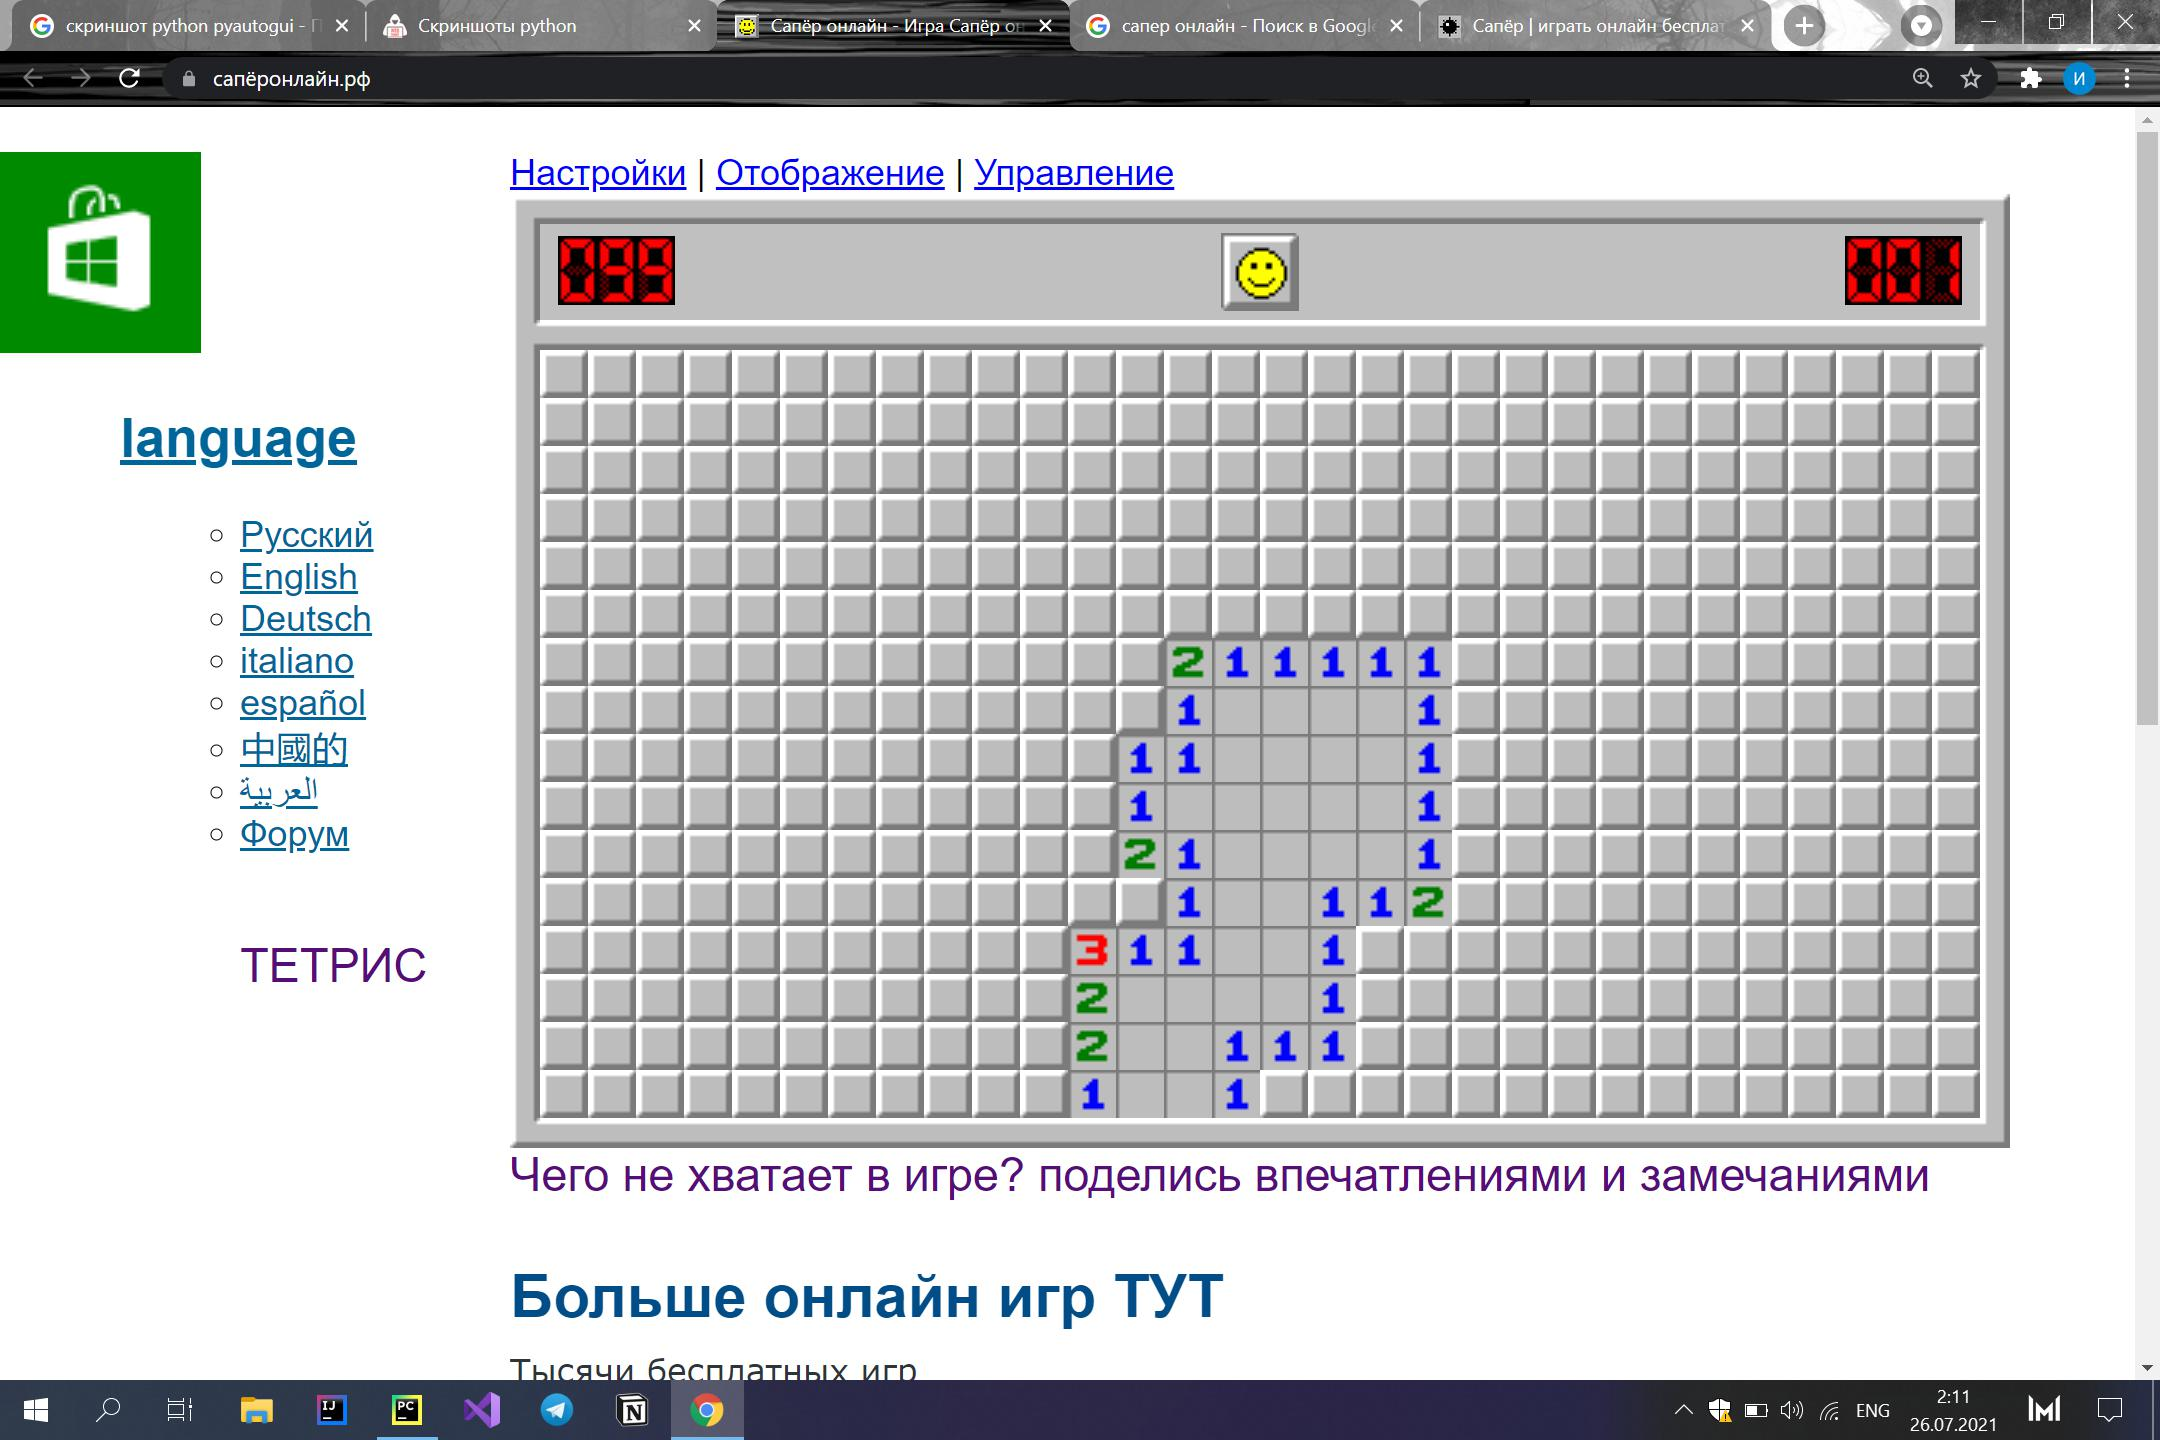
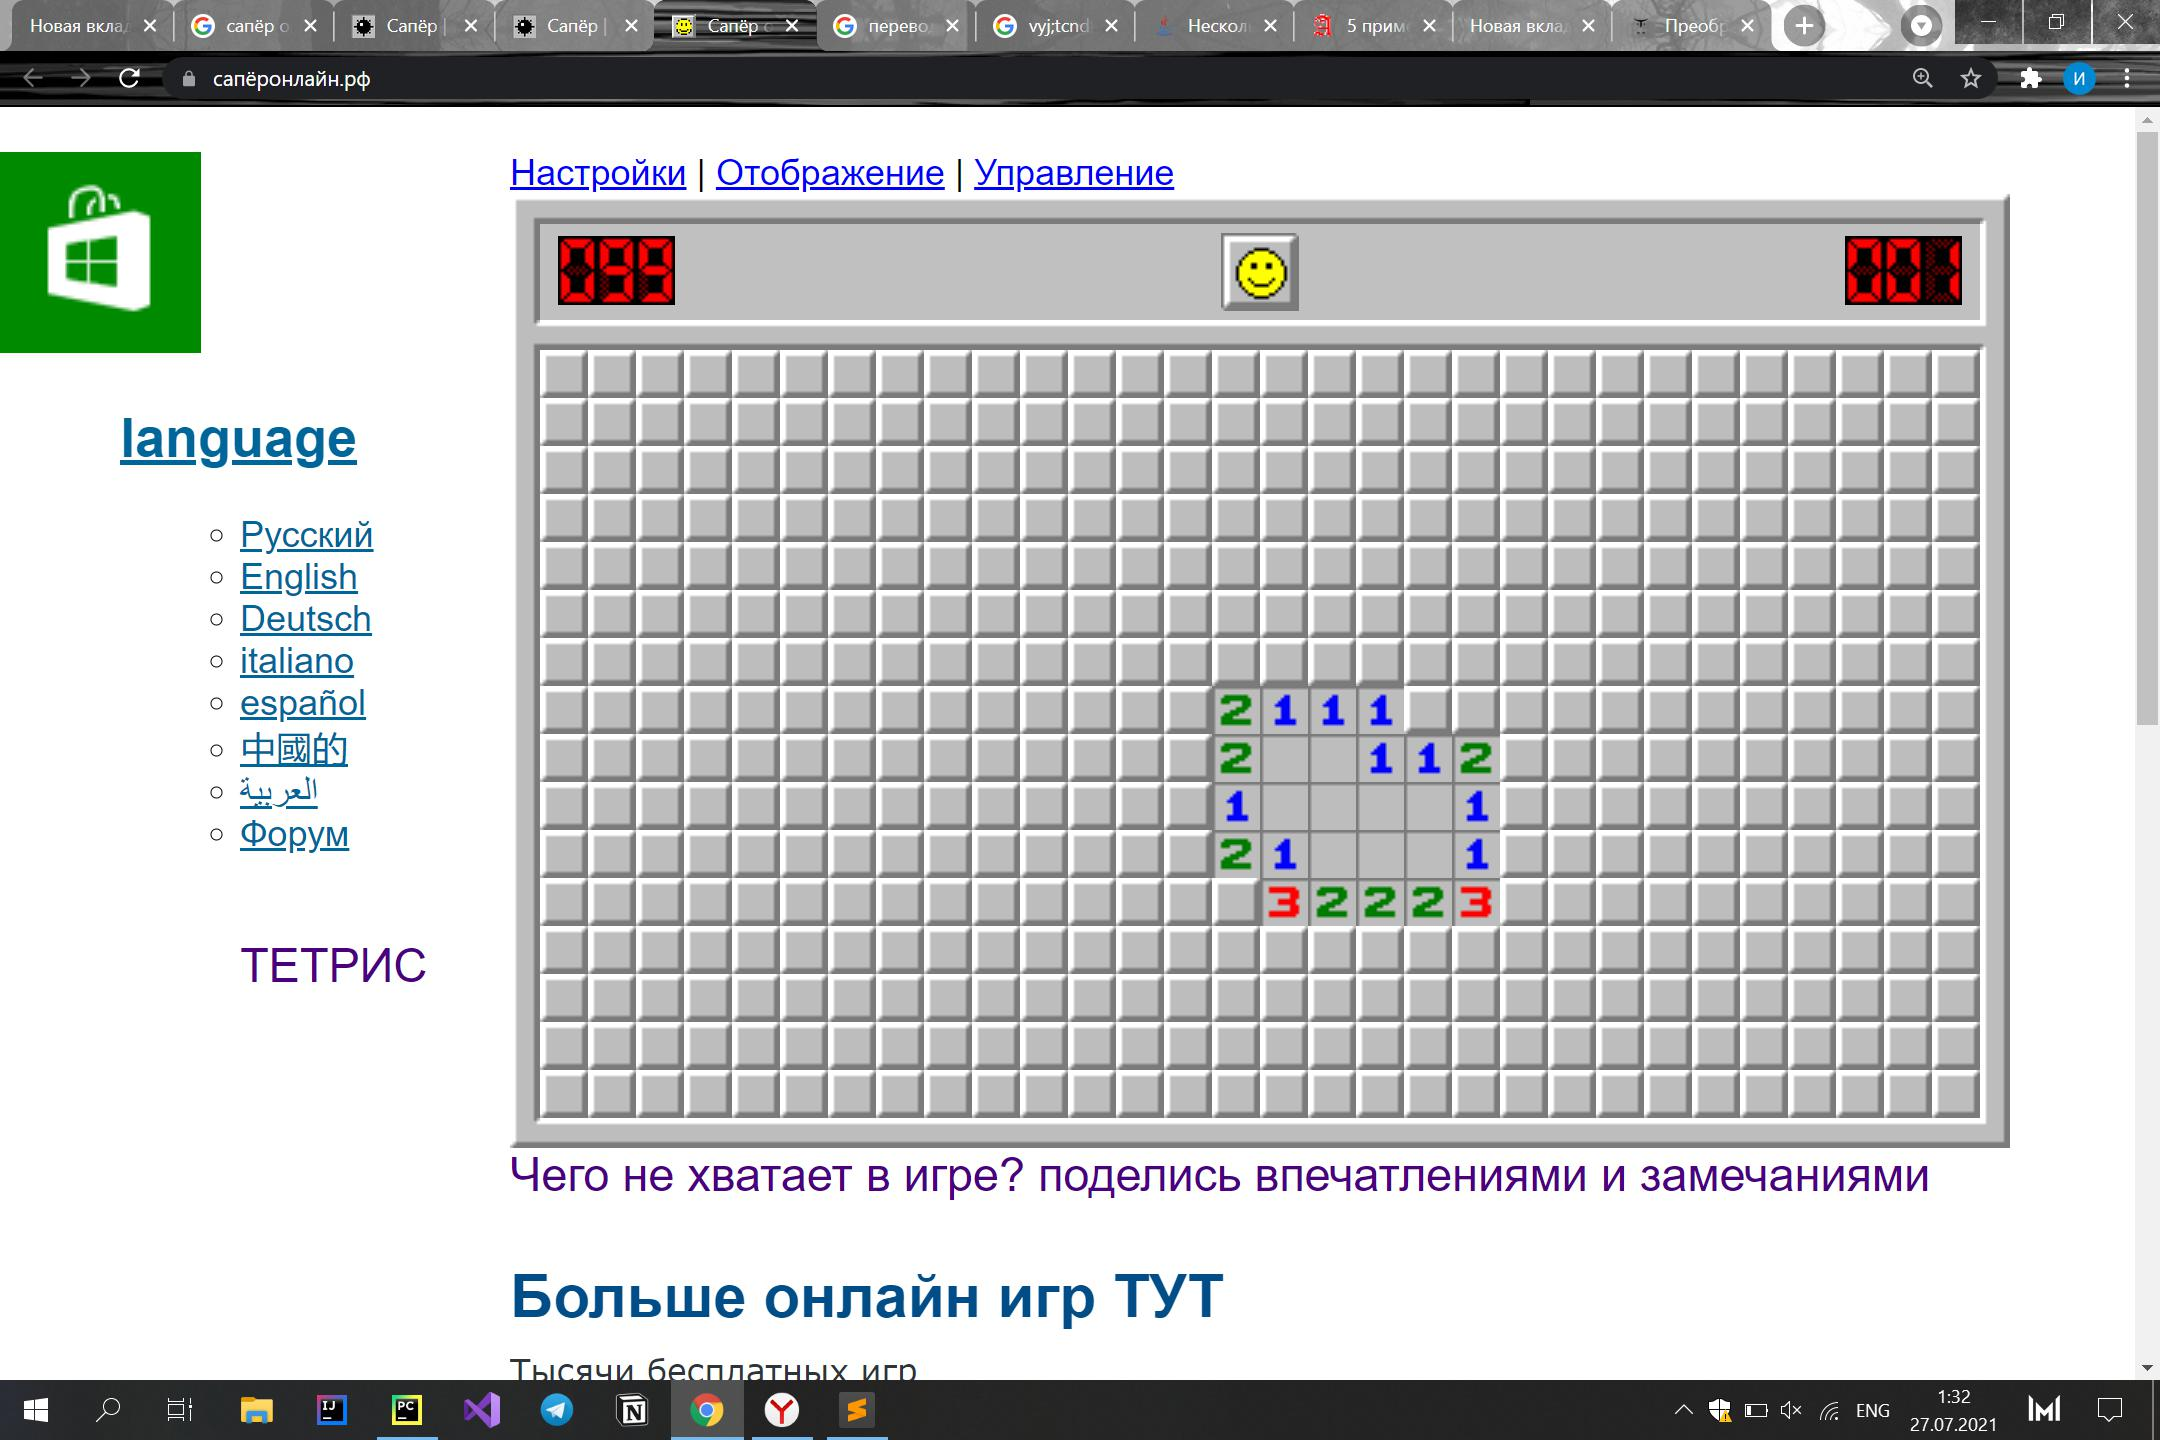
покалдовать с открытием ячеек

diff --git a/Sapper.py b/Sapper.py
@@ -1,5 +1,5 @@
 from SapperCell import SapperCell
-
+from UserActions import UserActions
 
 ###TODO: Клтеки лежат внутри контура таблицы
 
@@ -46,10 +46,10 @@ class Sapper:
                 for l in listCell:
                     x = (l.x1 + l.x2) / 2
                     y = (l.y1 + l.y2) / 2
-                    if  self.table[i][j].x1 <= x <= self.table[i][j].x2 and \
-                        self.table[i][j].y1 <= y <= self.table[i][j].y2:
+                    if self.table[i][j].x1 <= x <= self.table[i][j].x2 and \
+                            self.table[i][j].y1 <= y <= self.table[i][j].y2:
                         self.table[i][j].value = l.value
-                        self.table[i][j].refresh = True # обновилась ли ячейка в таблице
+                        self.table[i][j].refresh = True  # обновилась ли ячейка в таблице
                         # print (True)
 
         for i in range(self.n):
@@ -57,3 +57,103 @@ class Sapper:
                 if not self.table[i][j].refresh:
                     self.table[i][j].value = "\033[0m{}".format(" ")
                 self.table[i][j].refresh = False
+
+
+    def checkFlag(self):
+        countNumber = ['1', '2', '3', '4', '5', '6']
+        for i in range(self.n):
+            for j in range(self.m):
+                countLockCell = 0
+                for number in countNumber:
+                    if self.table[i][j].value == number:#TODO не проходит условие
+                        try:
+                            if self.table[i - 1][j - 1].value == '0' or\
+                               self.table[i - 1][j - 1].value =='newX' or\
+                               self.table[i - 1][j - 1].value =='X':
+                                countLockCell += 1
+                        except:
+                            print()
+                        try:
+                            if self.table[i - 1][j].value == '0' or self.table[i - 1][j].value == 'newX' or self.table[i - 1][j].value == 'X':
+                                countLockCell += 1
+                        except:
+                            print()
+                        try:
+                            if self.table[i - 1][j + 1].value == '0' or self.table[i - 1][j + 1].value =='newX' or self.table[i - 1][j + 1].value =='X':
+                                countLockCell += 1
+                        except:
+                            print()
+                        try:
+                            if self.table[i + 1][j - 1].value == '0' or self.table[i + 1][j - 1].value =='newX' or self.table[i + 1][j - 1].value =='X':
+                                countLockCell += 1
+                        except:
+                            print()
+                        try:
+                            if self.table[i + 1][j].value == '0' or self.table[i + 1][j].value == 'newX' or self.table[i + 1][j].value == 'X':
+                                countLockCell += 1
+                        except:
+                            print()
+                        try:
+                            if self.table[i + 1][j + 1].value == '0' or self.table[i + 1][j + 1].value =='newX' or self.table[i + 1][j + 1].value =='X':
+                                countLockCell += 1
+                        except:
+                            print()
+                        try:
+                            if self.table[i][j - 1].value == '0' or  self.table[i][j - 1].value == 'newX' or  self.table[i][j - 1].value == 'X':
+                                countLockCell += 1
+                        except:
+                            print()
+                        try:
+                            if self.table[i][j + 1].value == '0' or self.table[i][j + 1].value =='newX' or self.table[i][j + 1].value =='X':
+                                countLockCell += 1
+                        except:
+                            print()
+                    if countLockCell == int(number) and countLockCell:
+                        try:
+                            if self.table[i - 1][j - 1].value == '0':
+                                self.table[i][j + 1].value == 'newX'
+                        except:
+                            print()
+                        try:
+                            if self.table[i - 1][j].value == '0':
+                                self.table[i][j + 1].value == 'newX'
+                        except:
+                            print()
+                        try:
+                            if self.table[i - 1][j + 1].value == '0':
+                                self.table[i][j + 1].value == 'newX'
+                        except:
+                            print()
+                        try:
+                            if self.table[i + 1][j - 1].value == '0':
+                                self.table[i][j + 1].value == 'newX'
+                        except:
+                            print()
+                        try:
+                            if self.table[i + 1][j].value == '0':
+                                self.table[i][j + 1].value == 'newX'
+                        except:
+                            print()
+                        try:
+                            if self.table[i + 1][j + 1].value == '0':
+                                self.table[i][j + 1].value == 'newX'
+                        except:
+                            print()
+                        try:
+                            if self.table[i][j - 1].value == '0':
+                                self.table[i][j + 1].value == 'newX'
+                        except:
+                            print()
+                        try:
+                            if self.table[i][j + 1].value == '0':
+                                self.table[i][j + 1].value == 'newX'
+                        except:
+                            print()
+
+    def putFlag(self):
+        self.checkFlag()
+        for i in range(self.n):
+            for j in range(self.m):
+                if self.table[i][j].value == 'newX':
+                    self.table[i][j].value = 'X'
+                    UserActions.clickRight(self.table[i][j].x1, self.table[i][j].y1)

diff --git a/ComputerVision.py b/ComputerVision.py
@@ -92,14 +92,23 @@ class ComputerVision(object):
         for idx, template in enumerate(templates):
             # image = cv.imread('smiley.png', cv.IMREAD_COLOR)
             # template = cv.imread('template.png', cv.IMREAD_COLOR)
-            if idx == 0: nameCell = "\033[0m\033[40m{}".format("0")
-            if idx == 1: nameCell = "\033[0m\033[1m\033[34m{}".format("1")+"\033[0m"
-            if idx == 2: nameCell = "\033[0m\033[1m\033[34m{}".format("2")+"\033[0m"
-            if idx == 3: nameCell = "\033[0m\033[1m\033[34m{}".format("3")+"\033[0m"
-            if idx == 4: nameCell = "\033[0m\033[1m\033[34m{}".format("4")+"\033[0m"
-            if idx == 5: nameCell = "\033[0m\033[1m\033[34m{}".format("5")+"\033[0m"
-            if idx == 6: nameCell = "\033[0m\033[1m\033[34m{}".format("6")+"\033[0m"
-            if idx == 7: nameCell = "\033[0m\033[1m\033[31m{}".format("X")+"\033[0m"
+            # if idx == 0: nameCell = "\033[0m\033[40m{}".format("0")
+            # if idx == 1: nameCell = "\033[0m\033[1m\033[34m{}".format("1")+"\033[0m"
+            # if idx == 2: nameCell = "\033[0m\033[1m\033[34m{}".format("2")+"\033[0m"
+            # if idx == 3: nameCell = "\033[0m\033[1m\033[34m{}".format("3")+"\033[0m"
+            # if idx == 4: nameCell = "\033[0m\033[1m\033[34m{}".format("4")+"\033[0m"
+            # if idx == 5: nameCell = "\033[0m\033[1m\033[34m{}".format("5")+"\033[0m"
+            # if idx == 6: nameCell = "\033[0m\033[1m\033[34m{}".format("6")+"\033[0m"
+            # if idx == 7: nameCell = "\033[0m\033[1m\033[31m{}".format("X")+"\033[0m"
+            if idx == 0: nameCell = '0'
+            if idx == 1: nameCell = '1'
+            if idx == 2: nameCell = '2'
+            if idx == 3: nameCell = '3'
+            if idx == 4: nameCell = '4'
+            if idx == 5: nameCell = '5'
+            if idx == 6: nameCell = '6'
+            if idx == 7: nameCell = 'X'
+
 
             h, w = template.shape[:2]
 

diff --git a/UserActions.py b/UserActions.py
@@ -8,11 +8,18 @@ class UserActions(object):
         screen = pyautogui.screenshot('screenshot.jpg')
         print(screen)
         return screen
+
     #     pyautogui.moveTo(25, 25)  # Передвинули мышку в левый нижний угол (в район кнопки Start)
     #     pyautogui.click()  # Сэмулировали нажатие левой кнопки
 
     @staticmethod
-    def click(x,y):
+    def clickLeft(x, y):
         pyautogui.moveTo(x, y)  # Передвинули мышку в левый нижний угол (в район кнопки Start)
         pyautogui.click()  # Сэмулировали нажатие левой кнопки
         pyautogui.click()  # Сэмулировали нажатие левой кнопки
+
+    @staticmethod
+    def clickRight(x, y):
+        pyautogui.moveTo(x, y)  # Передвинули мышку в левый нижний угол (в район кнопки Start)
+        pyautogui.click()  # Сэмулировали нажатие левой кнопки
+        # pyautogui.click()  # Сэмулировали нажатие левой кнопки

diff --git a/SapperCell.py b/SapperCell.py
@@ -81,7 +81,16 @@ class SapperCell:
 
     def printCellValue(self):
         # print(self.__x+","+self.__y+","+self.value)
-        return "%s " % (self.__value)
+        nameCell=''
+        if self.__value == '0': nameCell = "\033[0m\033[40m{}".format("0")
+        if self.__value == '1': nameCell = "\033[0m\033[1m\033[34m{}".format("1") + "\033[0m"
+        if self.__value == '2': nameCell = "\033[0m\033[1m\033[34m{}".format("2") + "\033[0m"
+        if self.__value == '3': nameCell = "\033[0m\033[1m\033[34m{}".format("3") + "\033[0m"
+        if self.__value == '4': nameCell = "\033[0m\033[1m\033[34m{}".format("4") + "\033[0m"
+        if self.__value == '5': nameCell = "\033[0m\033[1m\033[34m{}".format("5") + "\033[0m"
+        if self.__value == '6': nameCell = "\033[0m\033[1m\033[34m{}".format("6") + "\033[0m"
+        if self.__value == 'X': nameCell = "\033[0m\033[1m\033[31m{}".format("X") + "\033[0m"
+        return "%s " % (nameCell)
 
     @staticmethod
     def checkIntersectCells(a, b):

diff --git a/main.py b/main.py
@@ -46,7 +46,7 @@ sapper.printTableValue()
 
 # Клик по рандомной ячеке (или  не рандомной)
 # TODO : КЛик по рандомной ячейке
-UserActions.click(sapper.table[8][15].x1,sapper.table[8][15].y1)
+UserActions.clickLeft(sapper.table[8][15].x1, sapper.table[8][15].y1)
 
 # следующая итерация после первого клика по полю
 UserActions.screenshot()
@@ -58,6 +58,7 @@ sapper.printTableValue()
 ComputerVision.display(imageSource)
 
 # Первый этап решения
+sapper.putFlag()
 # TODO : Заполняем все мины которые изветны
 # TODO : Кликаем там где уверены на 100%
 
